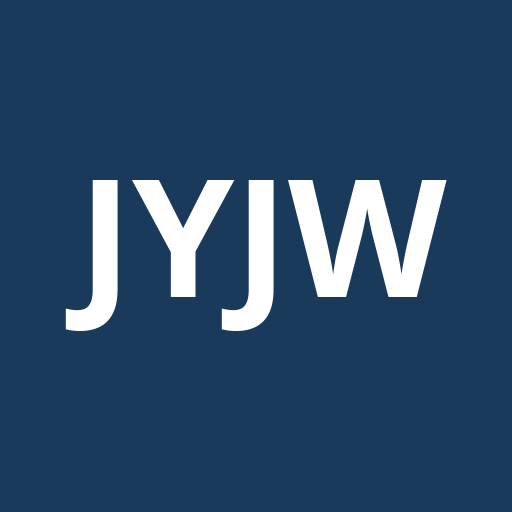
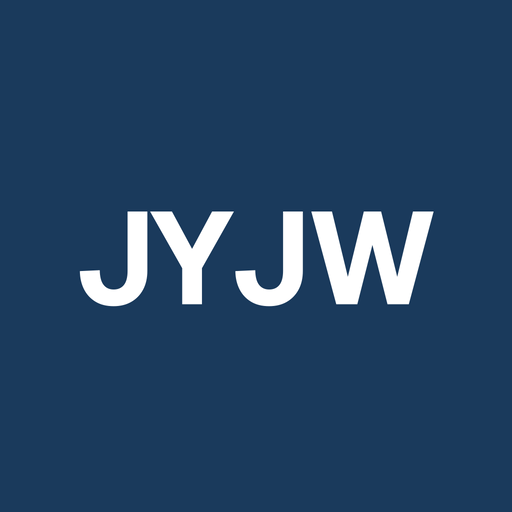
Updated fonts

Changed region(s): [[0.125, 0.3438, 0.875, 0.6562], [0.75, 0.5625, 0.8125, 0.5938]]

diff --git a/index.html b/index.html
@@ -6,7 +6,7 @@
     <meta name="description" content="Investment AI Suite — a collection of AI-powered tools for automating personal investment workflows." />
     <link rel="preconnect" href="https://fonts.googleapis.com" />
     <link rel="preconnect" href="https://fonts.gstatic.com" crossorigin />
-    <link href="https://fonts.googleapis.com/css2?family=Open+Sans:wght@400;500;600;700&family=JetBrains+Mono:wght@400;500&display=swap" rel="stylesheet" />
+    <link href="https://fonts.googleapis.com/css2?family=Geist:wght@400;500;600;700&family=JetBrains+Mono:wght@400;500&display=swap" rel="stylesheet" />
     <title>Investment AI Suite</title>
     <link rel="icon" href="%BASE_URL%favicon.ico" sizes="32x32">
     <link rel="icon" href="%BASE_URL%favicon.svg" type="image/svg+xml">

diff --git a/tailwind.config.js b/tailwind.config.js
@@ -15,7 +15,7 @@ export default {
         },
       },
       fontFamily: {
-        sans: ['Open Sans', 'system-ui', 'sans-serif'],
+        sans: ['Geist', 'system-ui', 'sans-serif'],
         mono: ['JetBrains Mono', 'monospace'],
       },
     },
